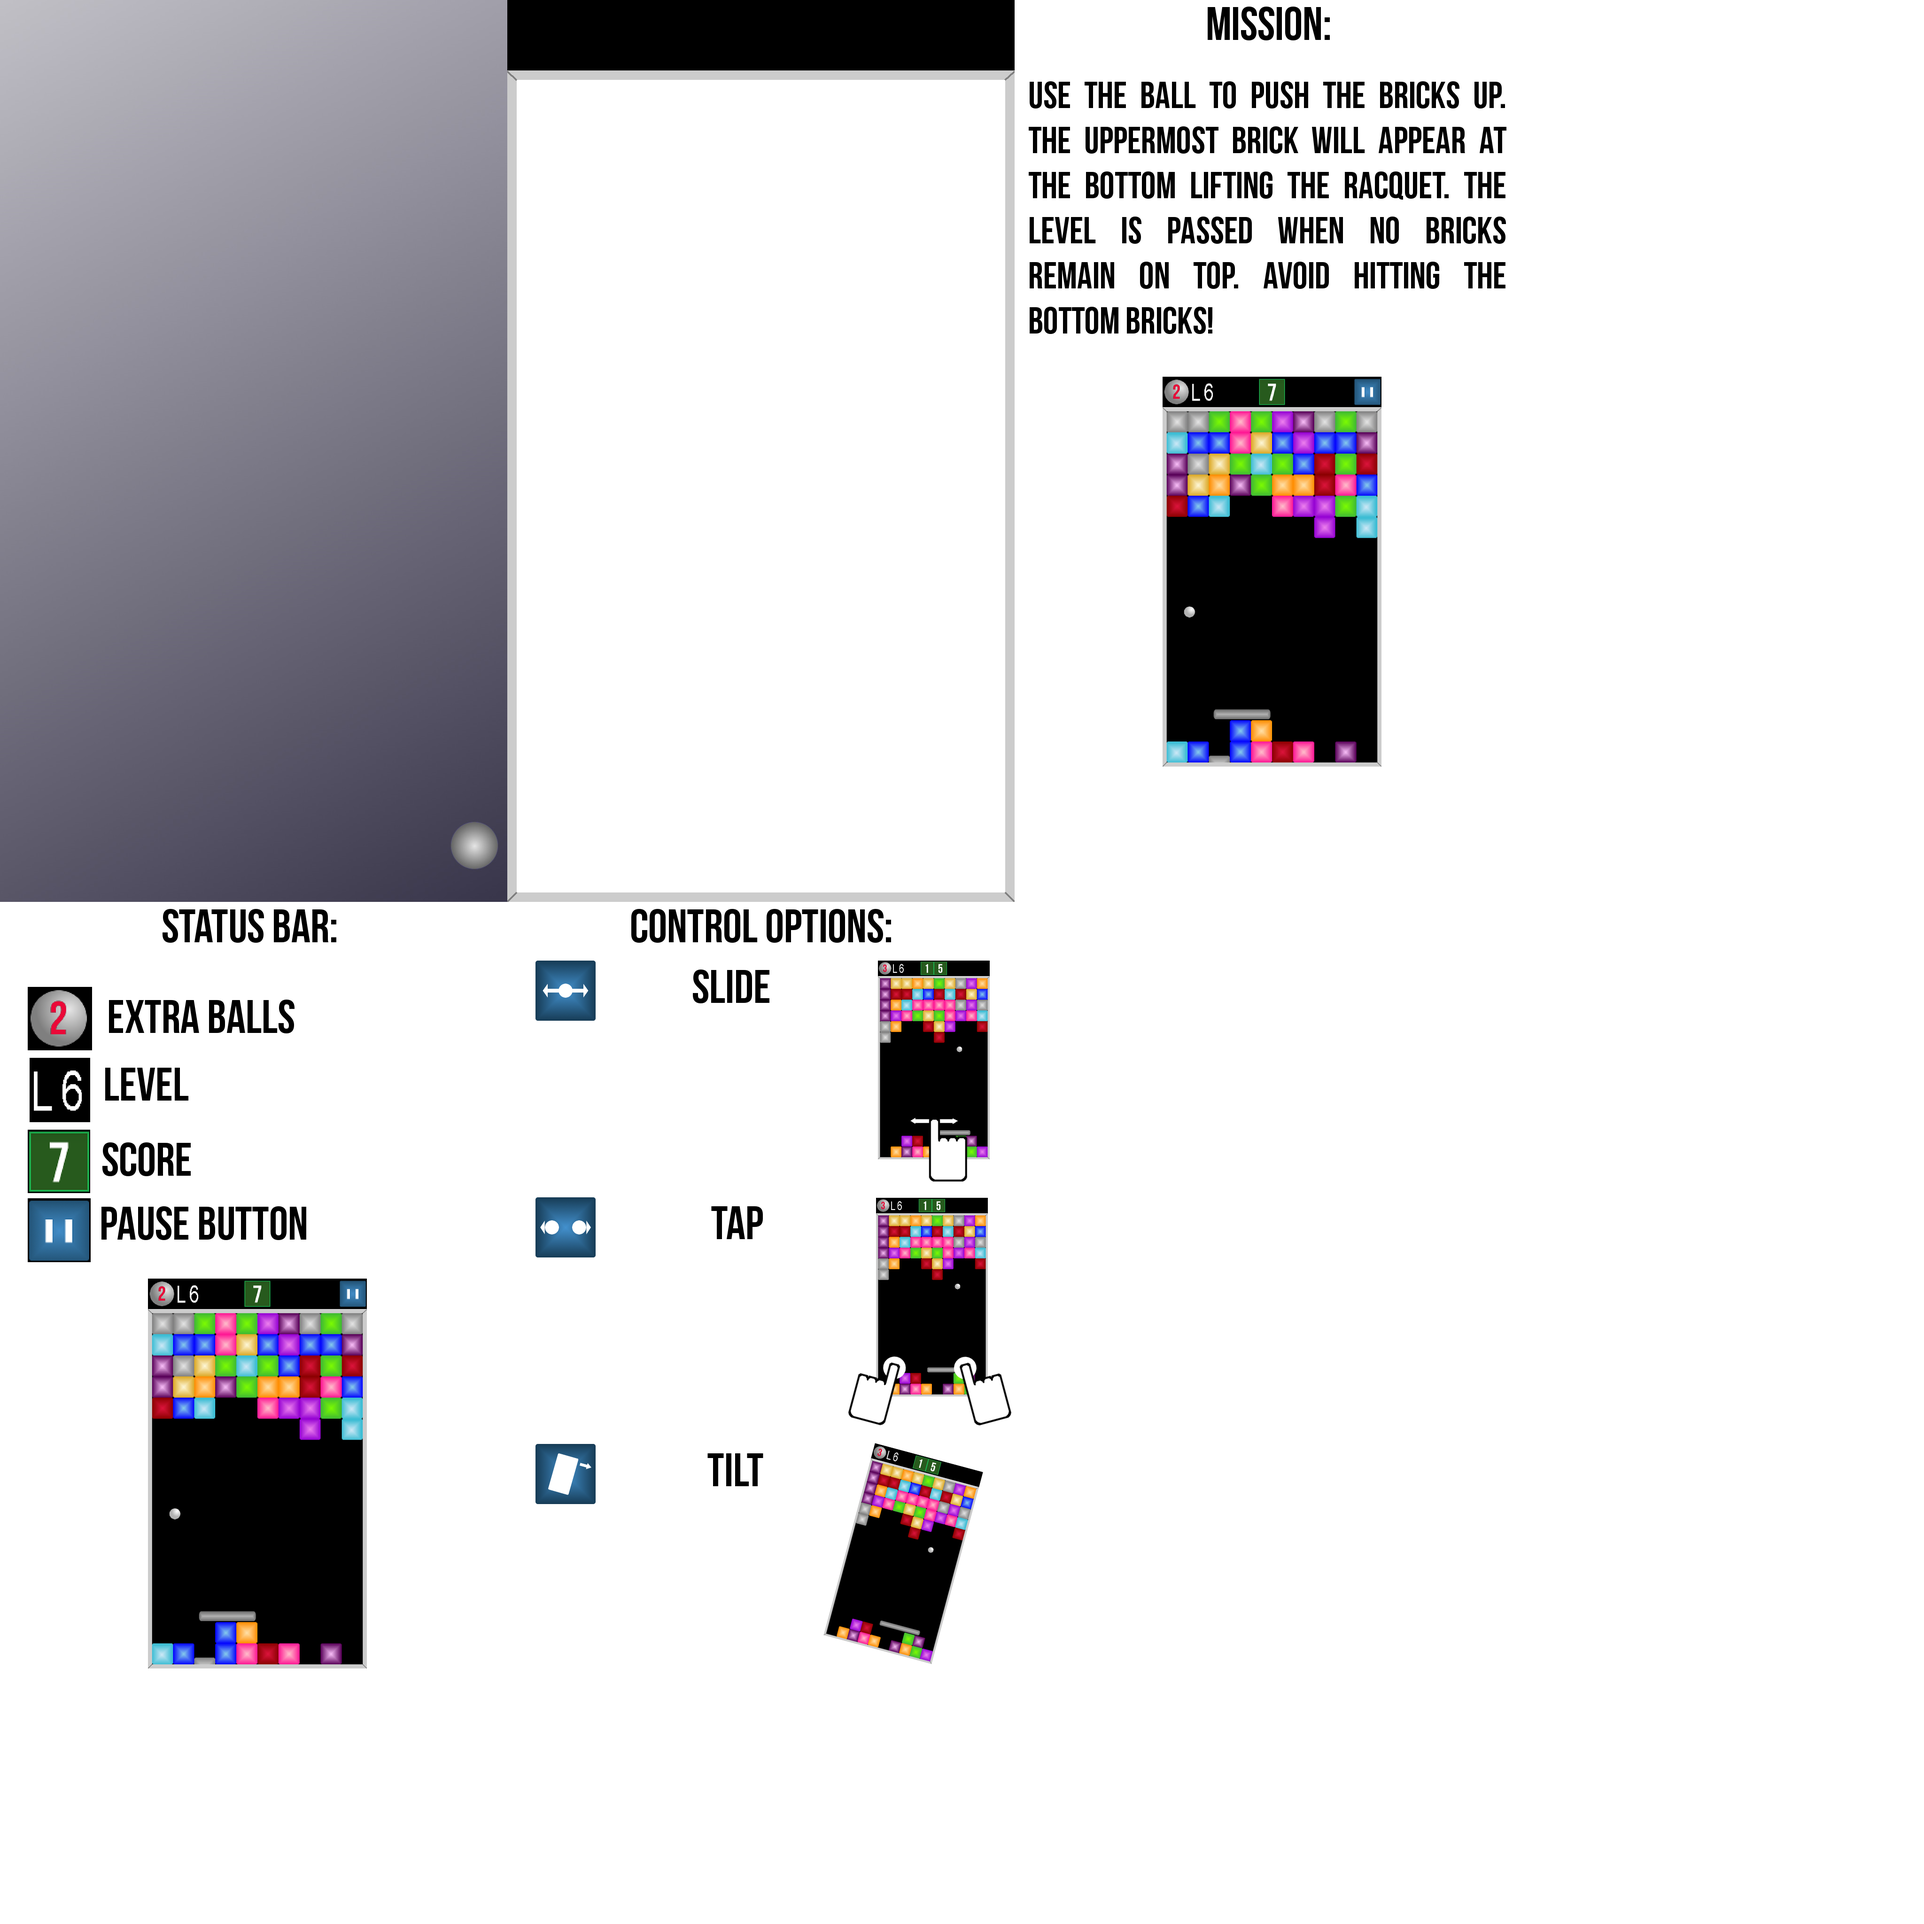
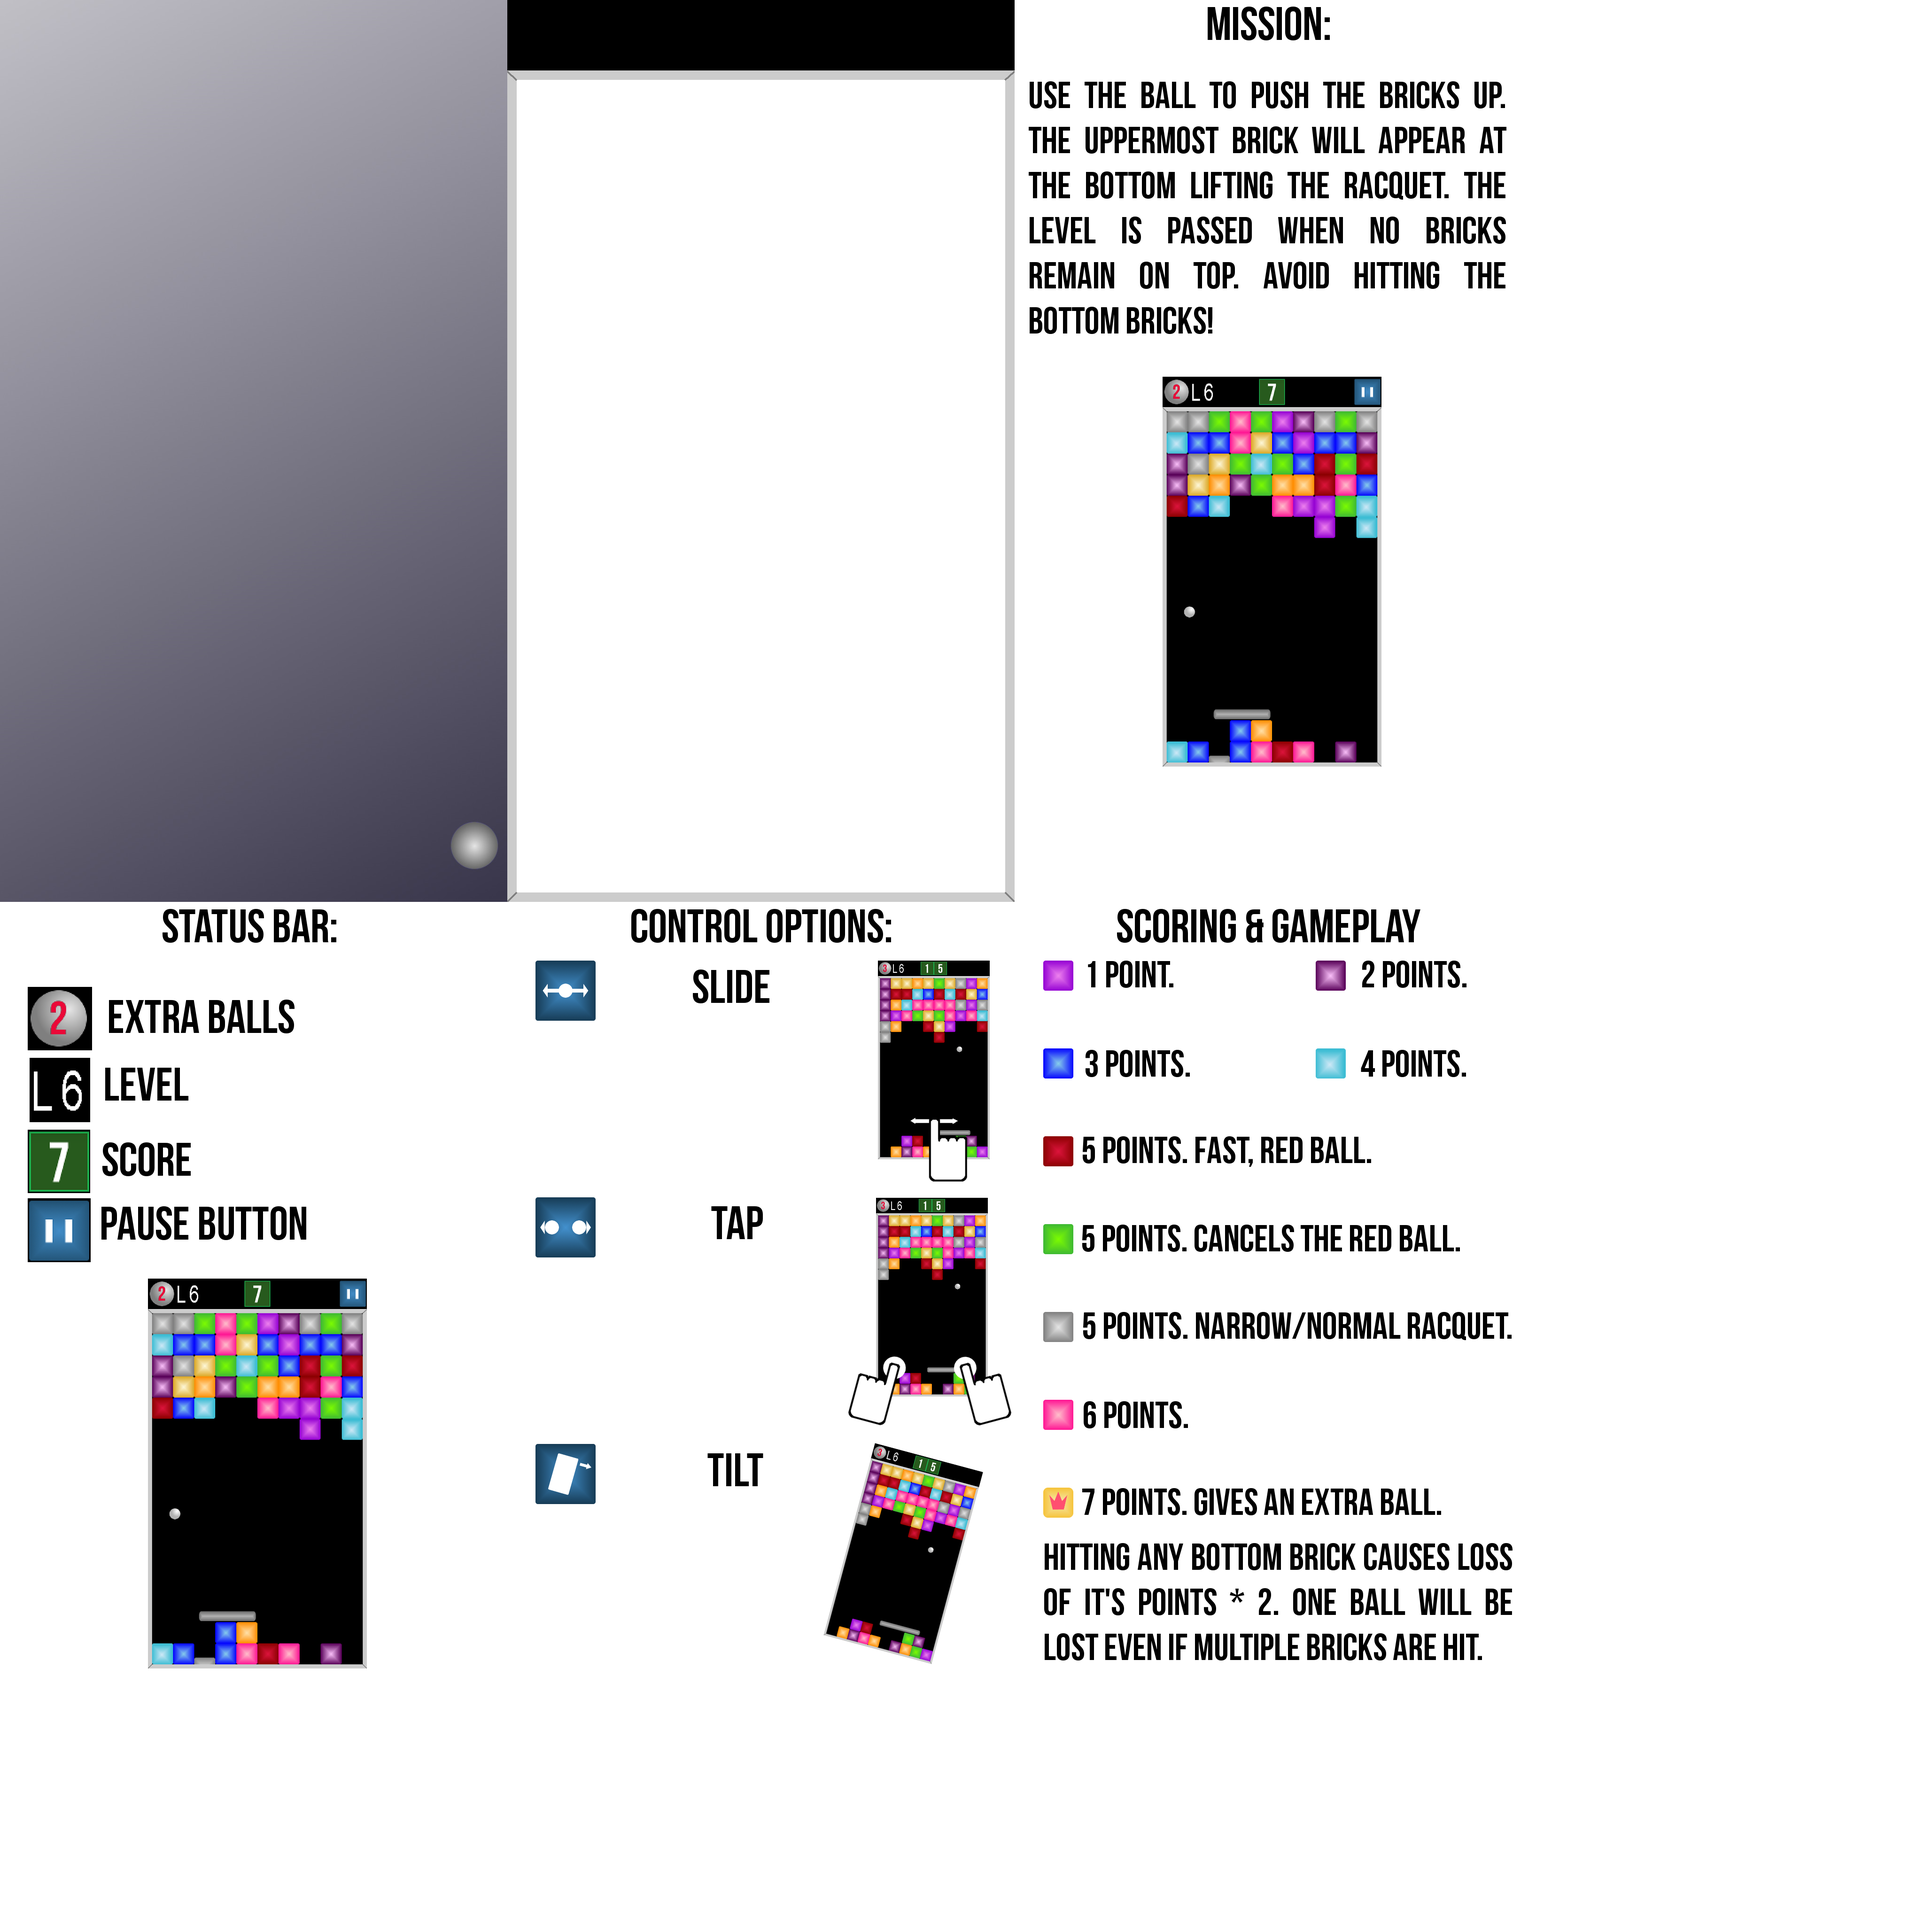
add helpScreen4

Changed region(s): [[0.5312, 0.5938, 0.7812, 0.875], [0.5312, 0.4688, 0.75, 0.5625]]

diff --git a/src/com/mmango/arkshift/HelpScreen.java b/src/com/mmango/arkshift/HelpScreen.java
@@ -28,6 +28,7 @@ public class HelpScreen extends GLScreen {
 	static final int SHOWING_SCREEN1 = 0;
 	static final int SHOWING_SCREEN2 = 1;
 	static final int SHOWING_SCREEN3 = 2;
+	static final int SHOWING_SCREEN4 = 3;
 	int state;
 
 	public HelpScreen(Game game) {
@@ -63,7 +64,7 @@ public class HelpScreen extends GLScreen {
 					return;
 				} else  {
 					state++;
-					if (state > SHOWING_SCREEN3)
+					if (state > SHOWING_SCREEN4)
 						state = SHOWING_SCREEN1;
 					return;
 				}
@@ -98,6 +99,9 @@ public class HelpScreen extends GLScreen {
 		case SHOWING_SCREEN3:
 			presentHelpScreen3(deltaTime);
 			break;
+		case SHOWING_SCREEN4:
+			presentHelpScreen4(deltaTime);
+			break;
 		}
 		batcher.endBatch();
 
@@ -126,6 +130,12 @@ public class HelpScreen extends GLScreen {
 	public void presentHelpScreen3(float deltaTime) {
 		//batcher.beginBatch(Assets.helpScreen3);
 		batcher.drawSprite(RESOLUTION_X / 2, RESOLUTION_Y / 2, RESOLUTION_X, RESOLUTION_Y, Assets.helpScreen3Region);
+		//batcher.endBatch();
+	}
+	
+	public void presentHelpScreen4(float deltaTime) {
+		//batcher.beginBatch(Assets.helpScreen3);
+		batcher.drawSprite(RESOLUTION_X / 2, RESOLUTION_Y / 2, RESOLUTION_X, RESOLUTION_Y, Assets.helpScreen4Region);
 		//batcher.endBatch();
 	}
 	

diff --git a/src/com/mmango/arkshift/Assets.java b/src/com/mmango/arkshift/Assets.java
@@ -113,6 +113,7 @@ public class Assets {
 	public static TextureRegion helpScreen2Region;
 	//public static Texture helpScreen3;
 	public static TextureRegion helpScreen3Region;	
+	public static TextureRegion helpScreen4Region;
 	//public static Music music;
 	public static Sound clickSound;
 	public static Sound racquetHitSound;
@@ -219,6 +220,7 @@ public class Assets {
 		helpScreen2Region = new TextureRegion(bigAtlas, 0, 1920, 1080, 1920);
 		//helpScreen3 = new Texture(game, "helpScreen3.png");
 		helpScreen3Region = new TextureRegion(bigAtlas, 1080, 1920, 1080, 1920);
+		helpScreen4Region = new TextureRegion(bigAtlas, 2160, 1920, 1080, 1920);
 		
 		//gameScreenBackground = new Texture(game, "background_with_transp_gamefield_1.png");
 		gameScreenBackgroundRegion = new TextureRegion(bigAtlas, 1080, 0, 1080, 1920);
